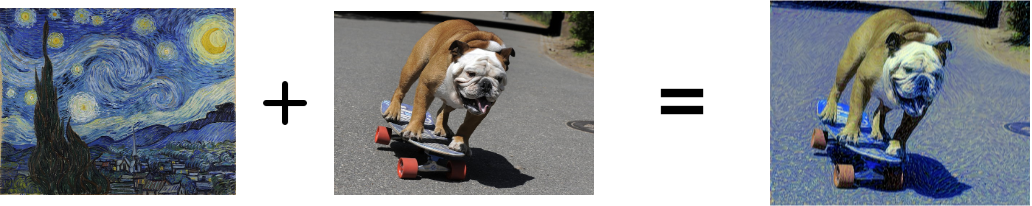
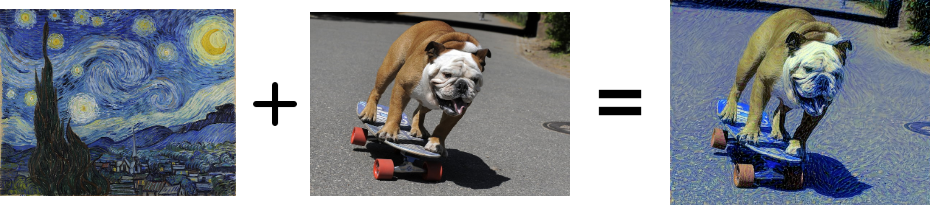
commit

diff --git a/_sass/jekyll-theme-slate.scss b/_sass/jekyll-theme-slate.scss
@@ -138,7 +138,7 @@ img {
   margin: 10px 0 10px 0;
   border: none;
 
-  box-shadow: 0px 0px 3px grey;
+  box-shadow: 0px 0px 0px grey;
   //-webkit-box-shadow: 10 10 10px #ebebeb;
   //-moz-box-shadow: 10 10 10px #ebebeb;
   //-o-box-shadow: 10 10 10px #ebebeb;

diff --git a/neural-style-transfer.md b/neural-style-transfer.md
@@ -144,7 +144,7 @@ block2_conv1
 </center>
 
 <center>
-block3_conv1
+block3_conv2
 <iframe width="640" height="360" src="https://www.youtube-nocookie.com/embed/gD0GjJxSZfs?rel=0" frameborder="0" allow="accelerometer; autoplay; encrypted-media; gyroscope; picture-in-picture" allowfullscreen></iframe>
 </center>
 
@@ -180,3 +180,6 @@ block1_conv1 and block4_conv1
 </center>
 
 Pretty sweet!
+<br/>
+<br/>
+{% include disqus.html %}
